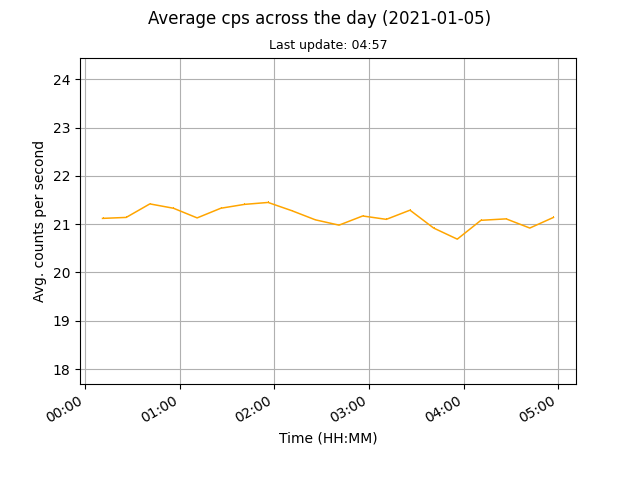
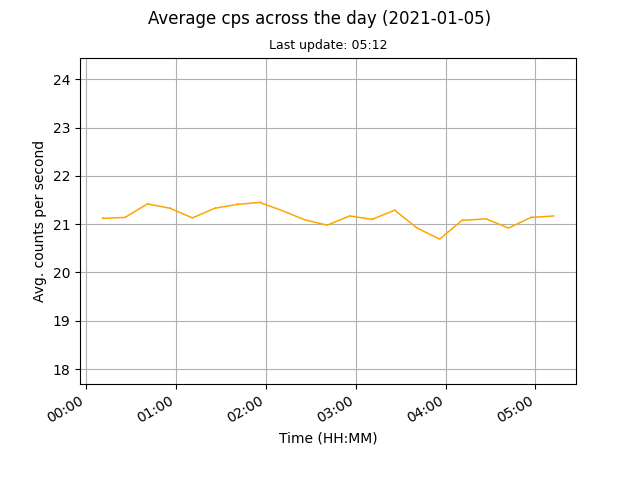
auto data update

diff --git a/docs/index.html b/docs/index.html
@@ -45,8 +45,8 @@
 	
 	<br>
 	
-	<p>Current counts per second (cps): 21.14</p>
-	<p>Last update: 2021-01-05, 04:57</p>
+	<p>Current counts per second (cps): 21.17</p>
+	<p>Last update: 2021-01-05, 05:12</p>
 
 	<p><a href="images/monthly.png"><img src="images/monthly.png" alt="Mothly avg cps data"></a><a href="images/daily.png"><img src="images/daily.png" alt="Daily avg cps data"></a></p>
 	
